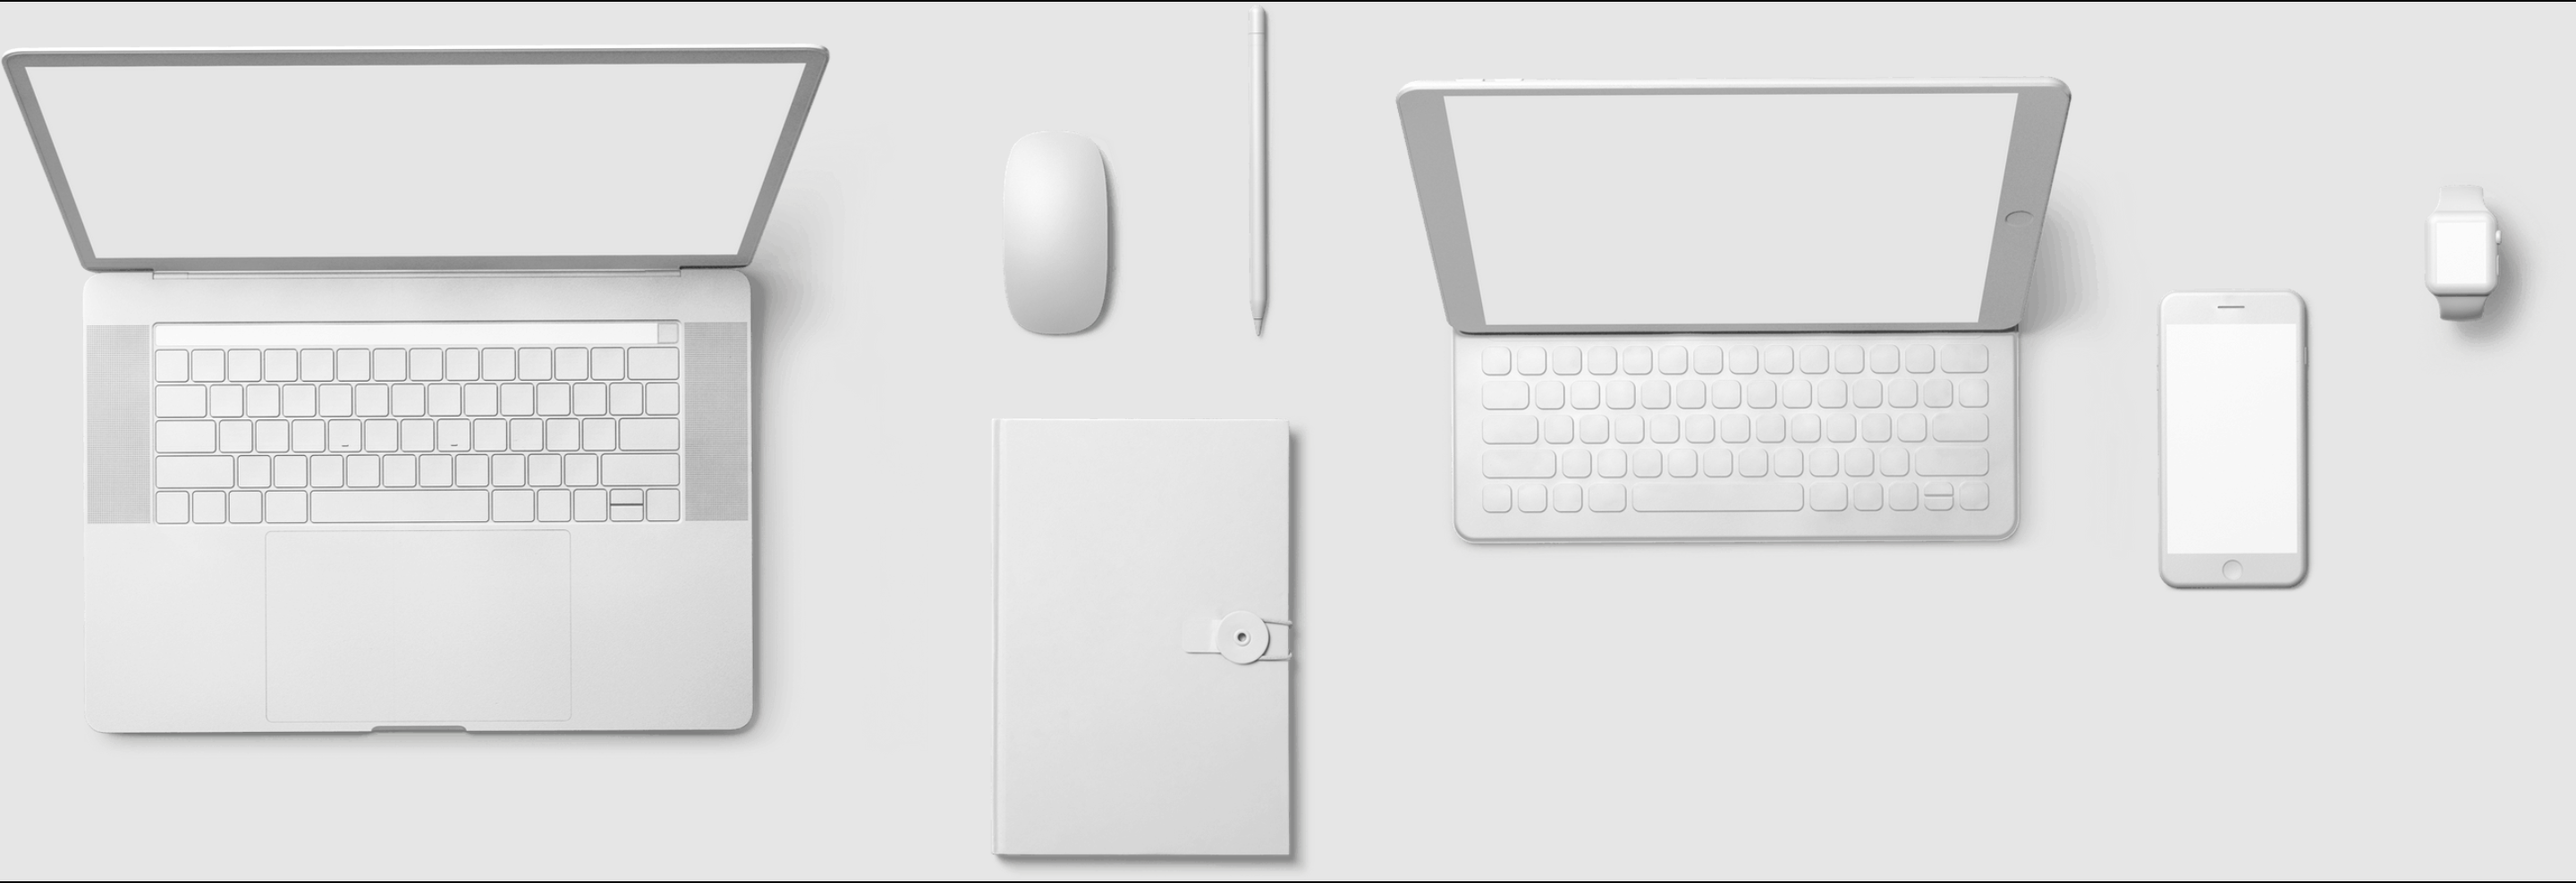
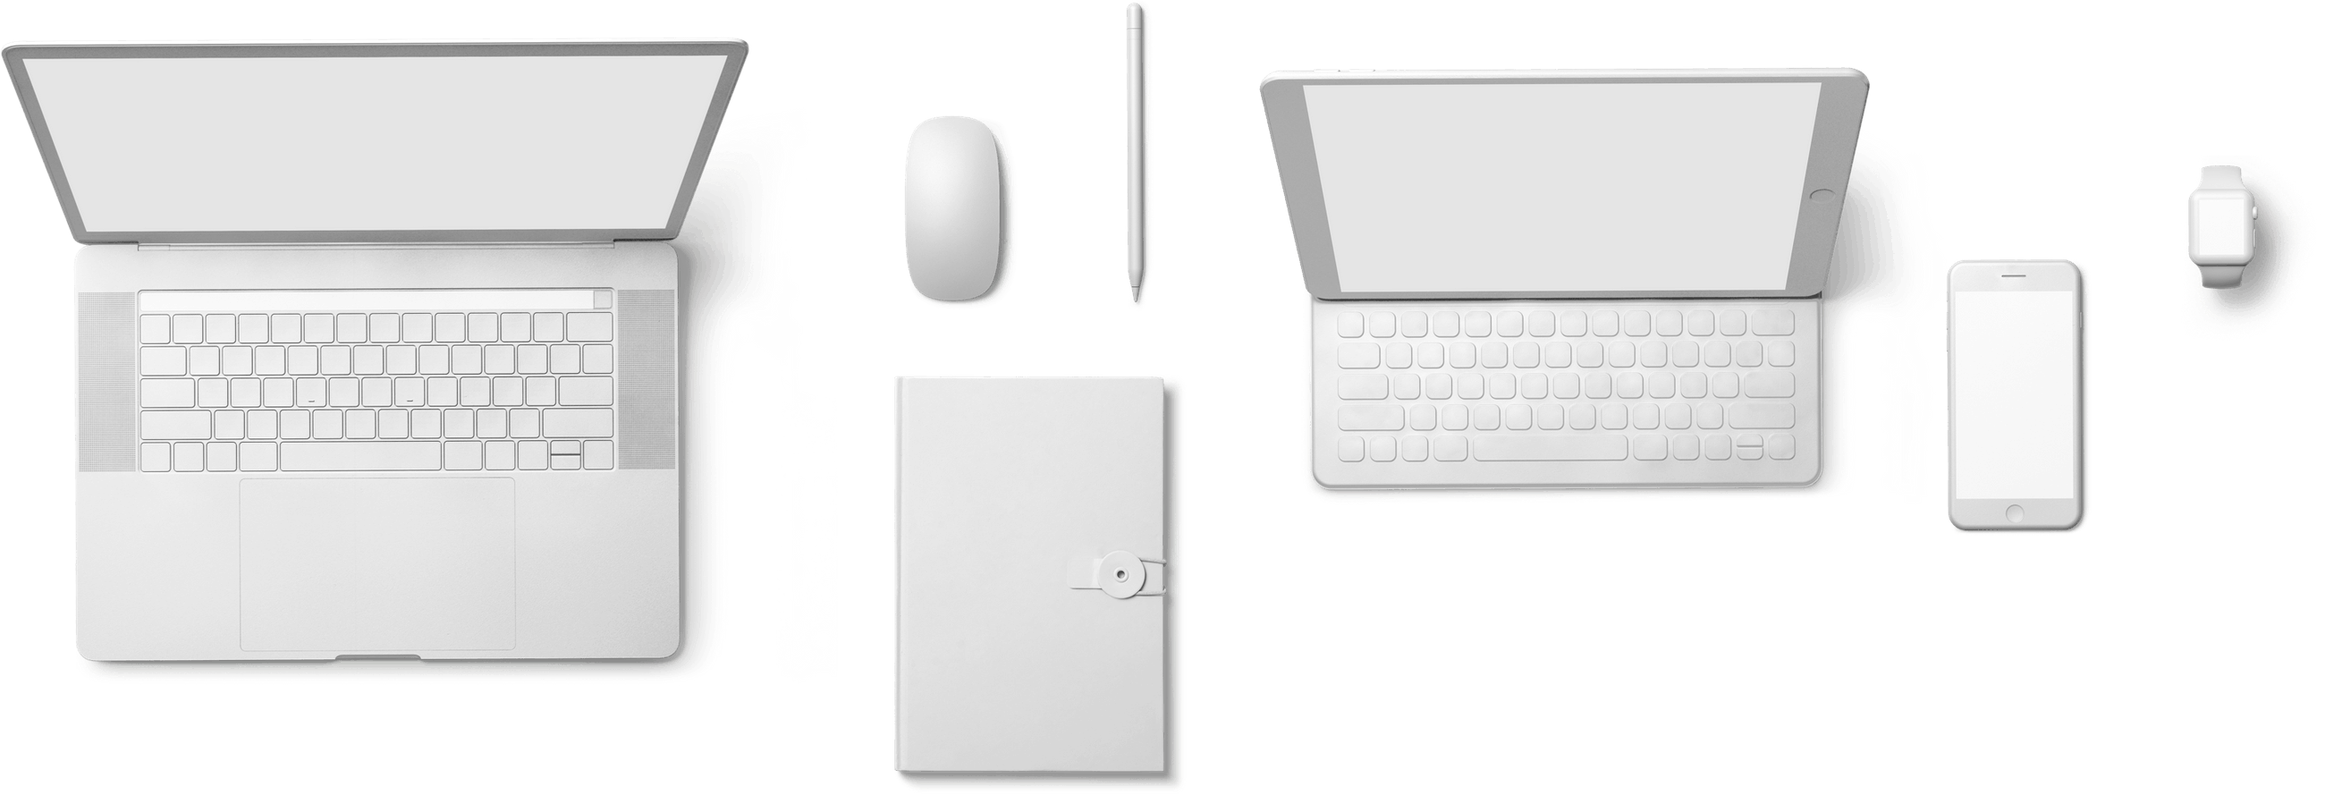
Adjust theme-image

diff --git a/index.html b/index.html
@@ -37,7 +37,7 @@
             </div>
         </header>
         <main class="wrapper">
-            <img src="./assets/images/code-image.png" class="workflow" alt="workflow-image">
+            <img src="./assets/images/Workflow.png" class="workflow" alt="workflow-image">
             <section class="sections" id="about">
                 <h2>About me</h2>
                 <div class="container">
@@ -50,9 +50,9 @@ I am a recent Media Communications Graduate. I'm in the process of completing a 
                 <h2>My Work</h2>
                 <div class="container" id="work">
                     <div class ="feature-project">
-                        <p class="project-nametag">SEO Project</p>
                         <a href="https://raimeeab.github.io/horiseon-semantics/" target="_blank" class="to target from css">
                             <div class="main-work">
+                                <p class="project-nametag">SEO Project</p>
                                 <img src="assets/images/seo-background.jpg" class="project-images" alt="SEO Project">
                             </div>
                         </a>

diff --git a/assets/style.css b/assets/style.css
@@ -150,8 +150,8 @@ label {
     height: auto;
     margin-top: 60px;
     margin-bottom: 60px;
-    filter: blur(--background-colour);
-    z-index: 1;
+    /* filter: blur(--background-colour);
+    z-index: 1; */
     }
 
 .wrapper {
